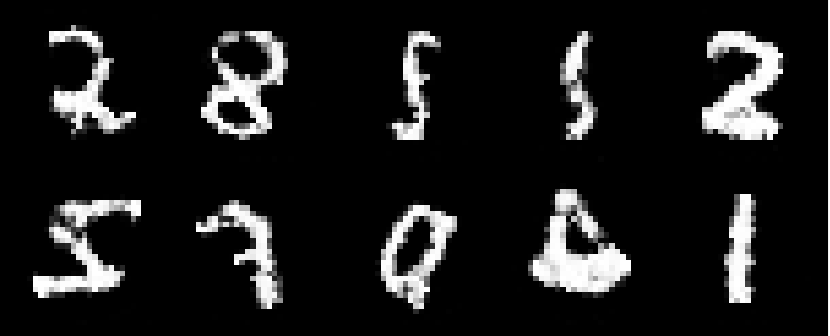
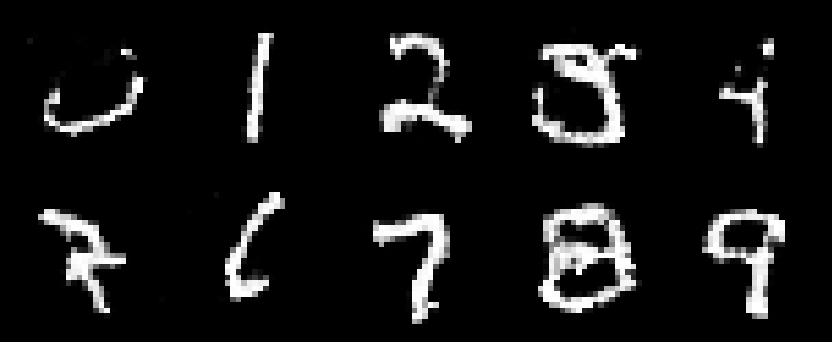
make MAF conditional

diff --git a/MAF/train.py b/MAF/train.py
@@ -10,18 +10,18 @@ from MAF import MAF, MAFImageTransform
 
 
 BATCH_SIZE = 8 # increase to 64 to train
-HIDDEN_DIM = 1024
-NUM_BLOCKS = 5
+HIDDEN_DIM = 4096
+NUM_BLOCKS = 10
 LR = 1e-4
 EPOCHS = 200
-device = torch.device("cuda")
+device = torch.device("cpu")
 COND_DIM = 10
 
 
 def sample(model):
     model.model.eval()
     alpha = 0.01
-    images = model.sample(10)
+    images = model.sample(10, torch.nn.functional.one_hot(torch.arange(10), 10)).reshape(-1, 1, 28, 28)
     images = ((torch.sigmoid(images) - alpha) / (1 - 2 * alpha)).clip(0., 1.)
     grid_img = torchvision.utils.make_grid(images, nrow=5)
     plt.imshow(grid_img.permute(1, 2, 0).cpu().numpy())
@@ -43,9 +43,10 @@ def train(train_dataset, test_dataset):
     D = torch.prod(torch.tensor(image_shape)).item()
 
     model = MAF(D, COND_DIM, HIDDEN_DIM, NUM_BLOCKS, LR, device)
-    #  model.load("../pretrained/MAF.torch")
-    #  sample(model)
-    #  return
+    model.load("../pretrained/MAF_cond.torch")
+    print("Model loaded successfully")
+    sample(model)
+    return
 
     log().add_plot("loss", ["epoch", "nll_loss"])
     log().add_plot("test", ["epoch", "nll_loss"])

diff --git a/MAF/MAF.py b/MAF/MAF.py
@@ -49,7 +49,7 @@ class MAF(nn.Module):
 
     def sample(self, batch_size, conditions):
         with torch.no_grad():
-            z = self.prior.sample([batch_size, self.D])
+            z = self.prior.sample([batch_size, self.flow_dim])
             x, _ = self.model.inverse_flow(z, conditions)
         return x
 

diff --git a/README.md b/README.md
@@ -1,15 +1,19 @@
 # flows
-few flow based models
+Implementations of a few normalizing flow models
 
 ## RealNVP
 [Density estimation using Real NVP](https://arxiv.org/abs/1605.08803) -- paper on arxiv
 
 No multiscaling and ActNorm from [Glow](https://arxiv.org/abs/1807.03039) instead of batch normalization
 
+Not conditional
+
 ![realnvp_mnist](generated/realnvp_mnist.png?raw=true)
 
 ## MAF
 
 [Masked Autoregressive Flow for Density Estimation](https://arxiv.org/abs/1705.07057) -- paper on arxiv
+
+Conditional
 
 ![maf_mnist](generated/maf_mnist.png?raw=true)
